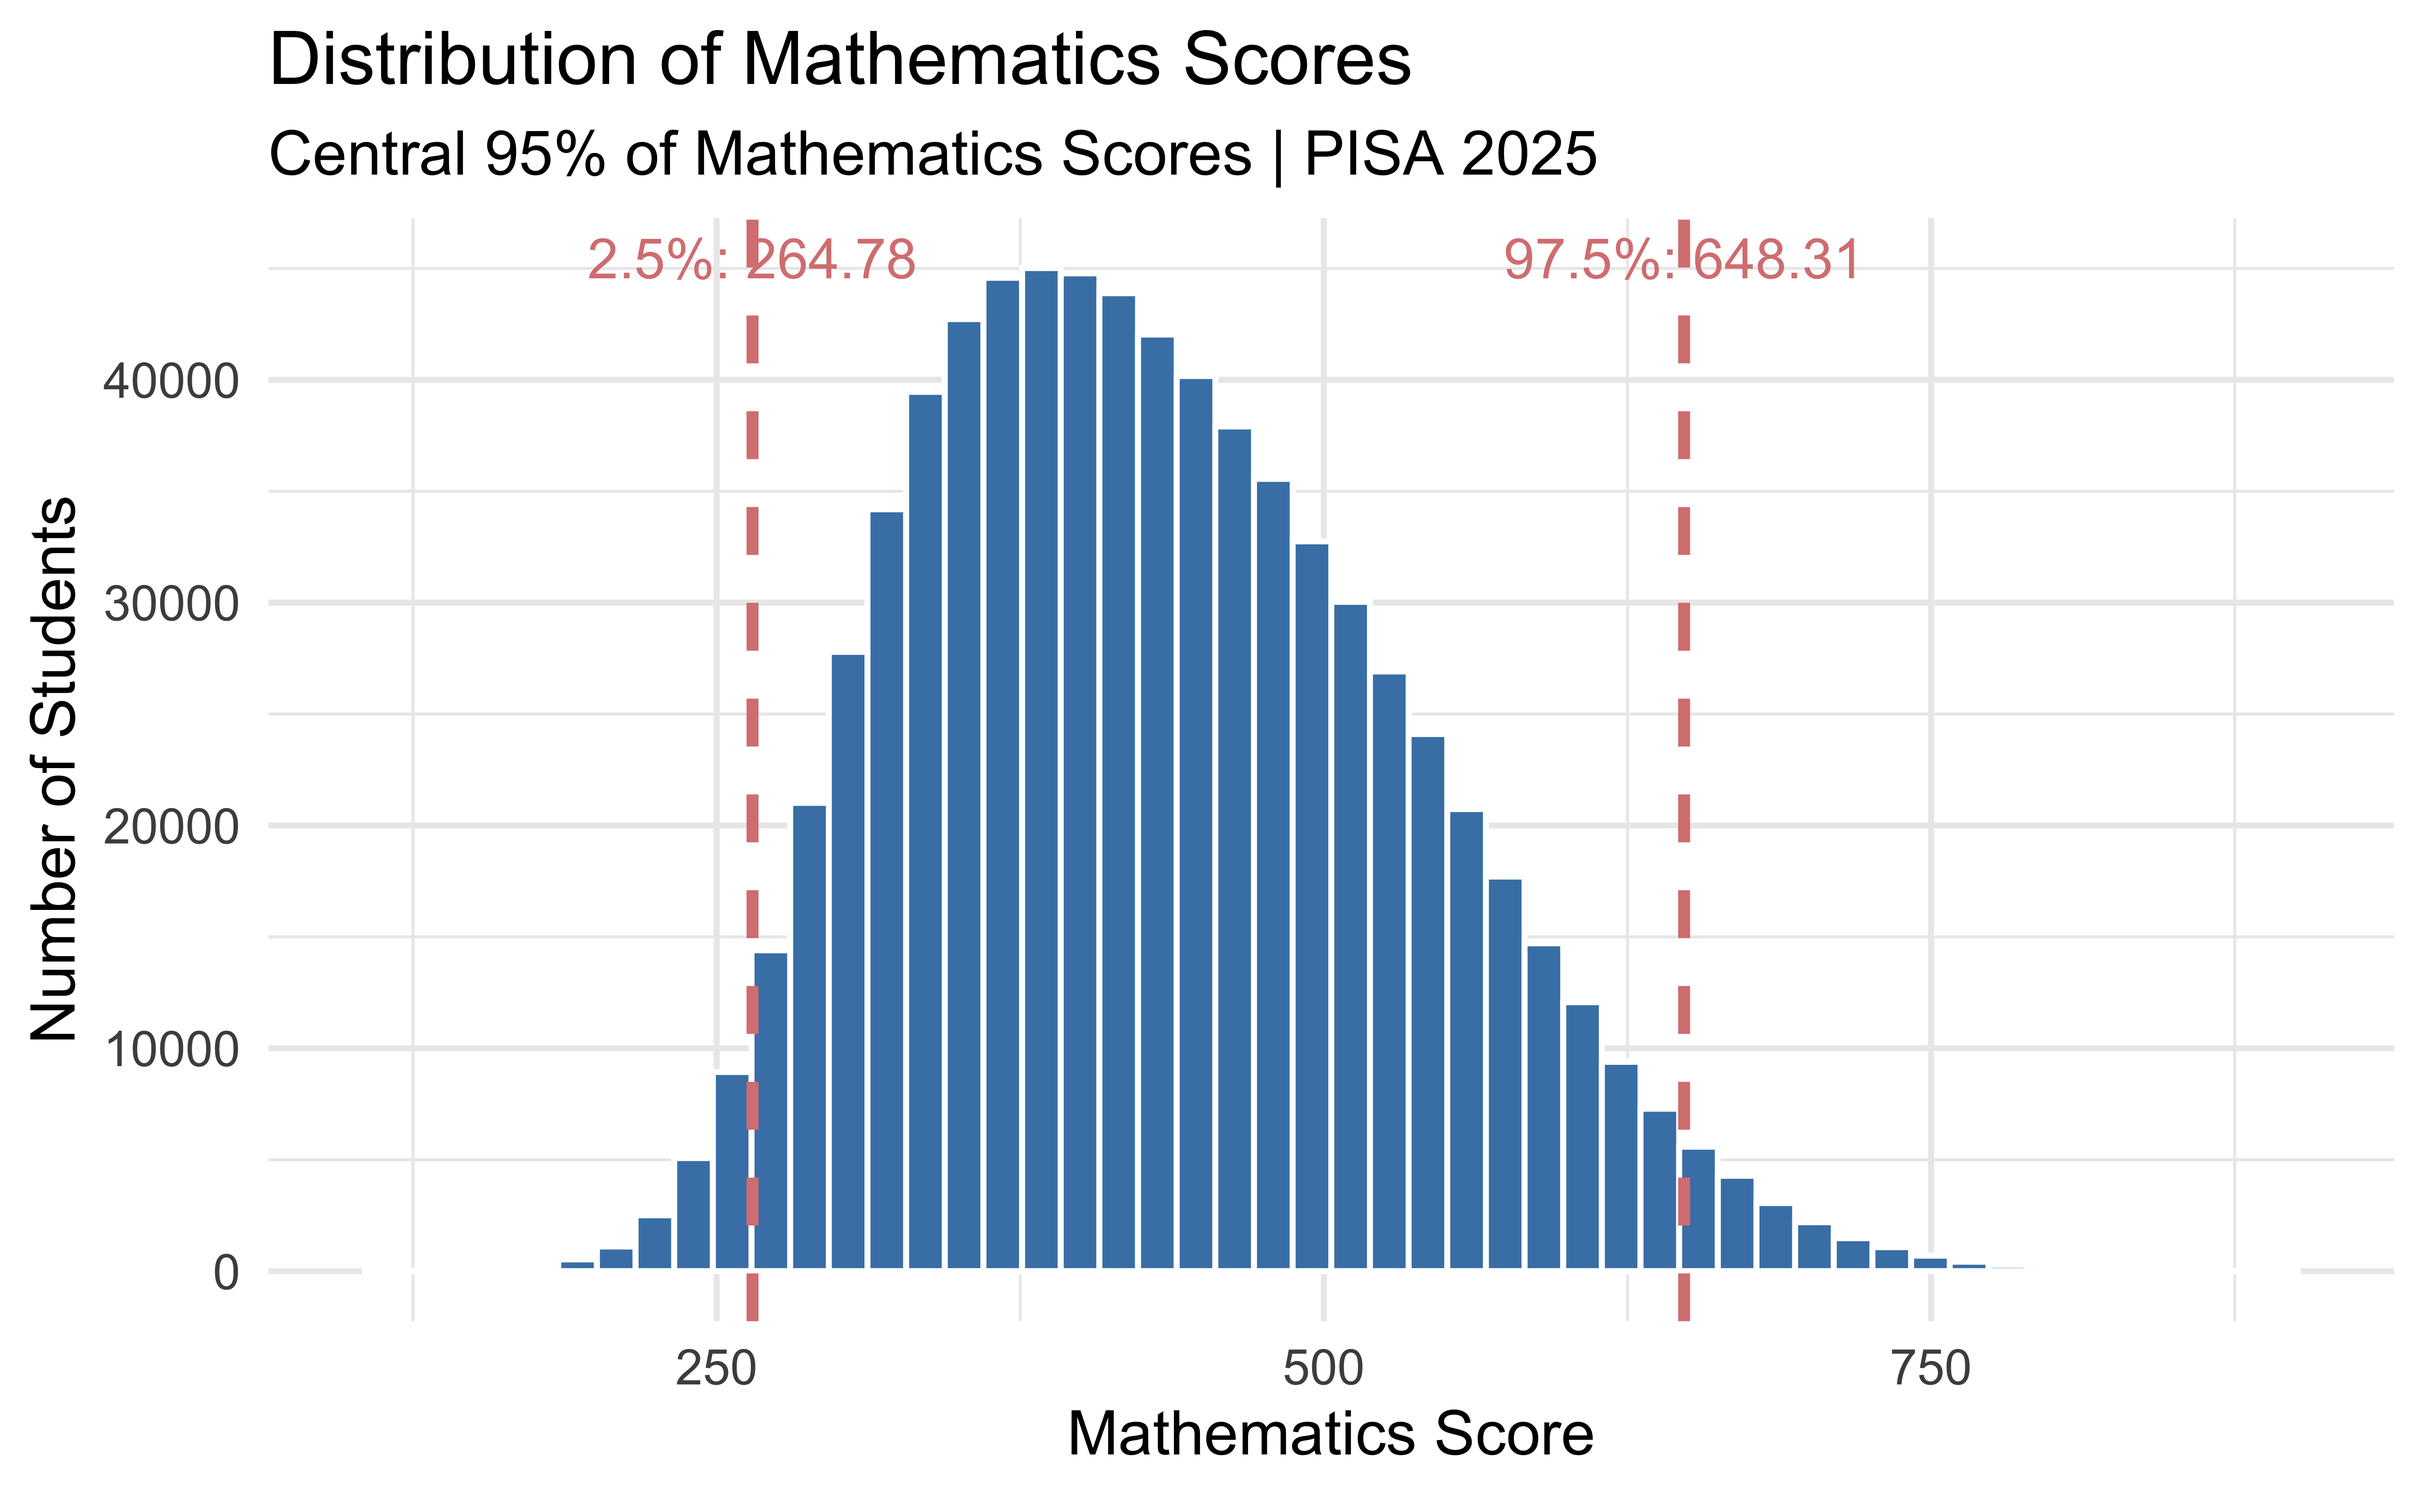
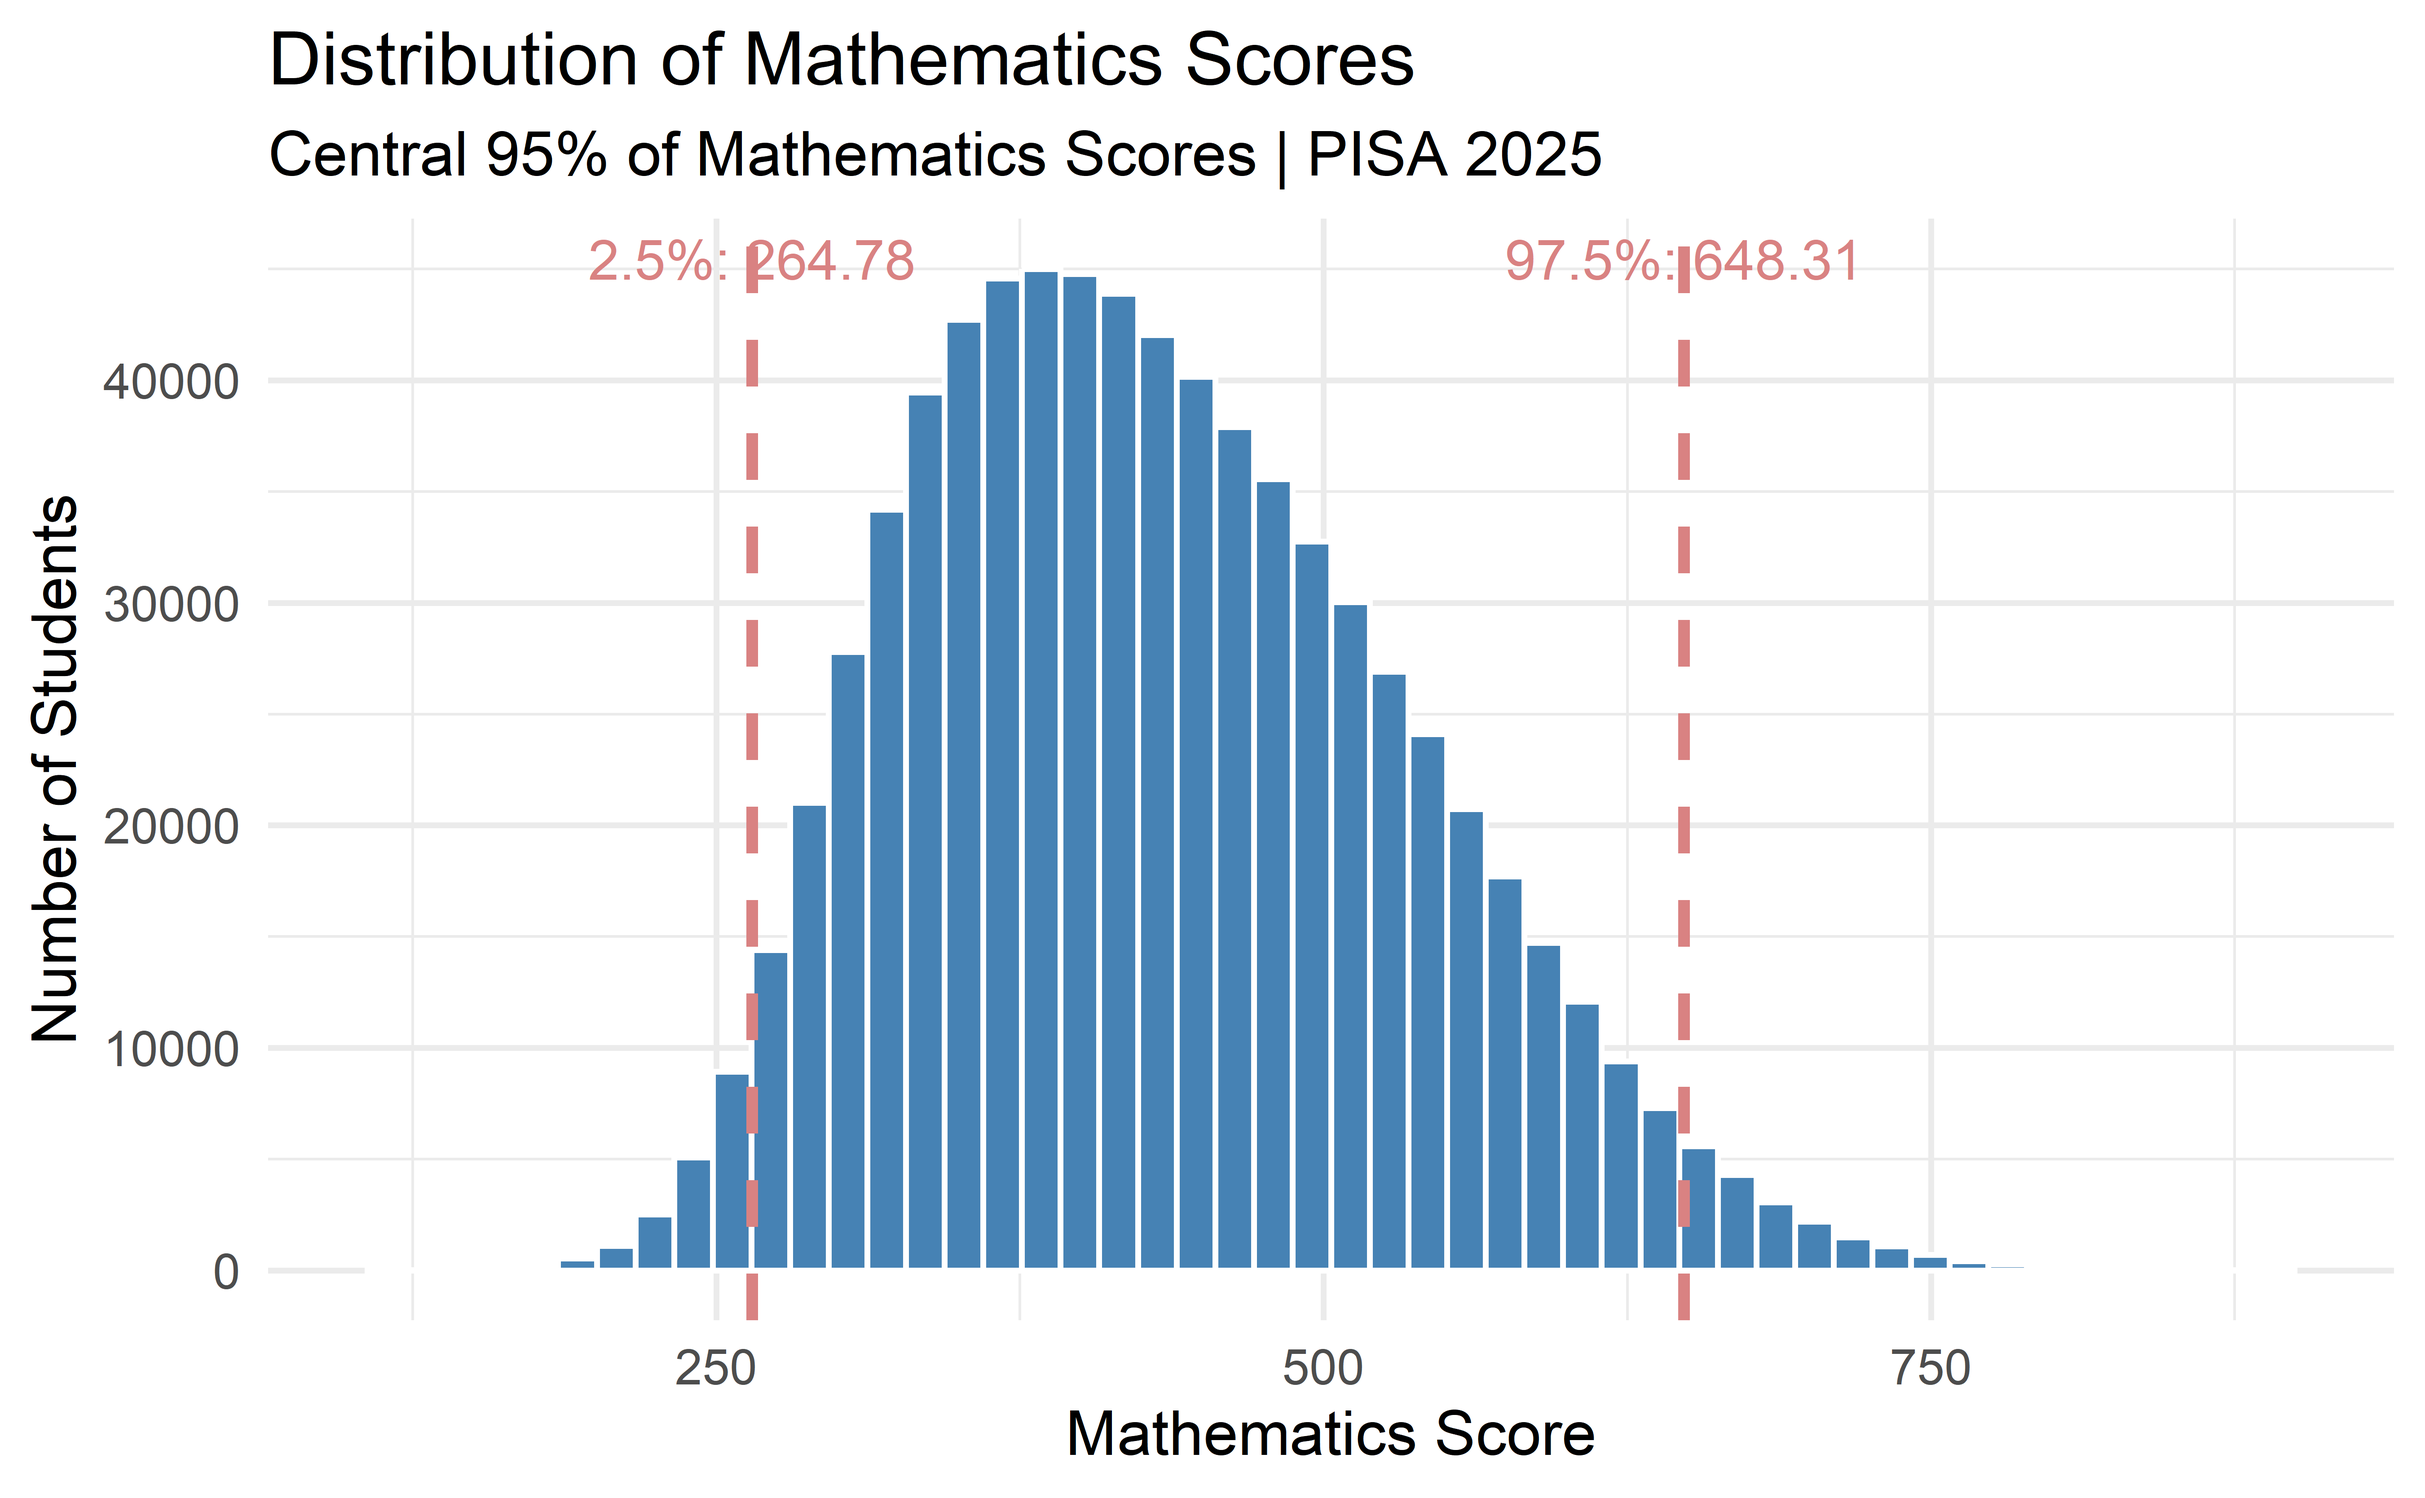
update

diff --git a/report.html b/report.html
@@ -11,7 +11,7 @@
 
 <meta name="author" content="by α-R: Junyi Mao, Pang-Qiyu, Ziqiao Zhou, Ali Hamzeh &amp; Yachen Wang" />
 
-<meta name="date" content="2026-11-19" />
+<meta name="date" content="2026-11-20" />
 
 <title>Family Background and Mathematics Performance in PISA 2025</title>
 
@@ -354,7 +354,7 @@ display: none;
 Performance in PISA 2025</h1>
 <h4 class="author">by α-R: Junyi Mao, Pang-Qiyu, Ziqiao Zhou, Ali Hamzeh
 &amp; Yachen Wang</h4>
-<h4 class="date">2026-11-19</h4>
+<h4 class="date">2026-11-20</h4>
 
 </div>
 
@@ -433,7 +433,8 @@ performance</p>
 <p>####Parental occupational status and mathematics performance</p>
 <p>####Home ICT resources and mathematics performance</p>
 <p>###Correlation and regression analysis</p>
-<p>###Discussion(maybe + conclusion?)</p>
+<p>###Discussion</p>
+<p>###conclusion</p>
 </div>
 <div id="references" class="section level2">
 <h2>References</h2>
